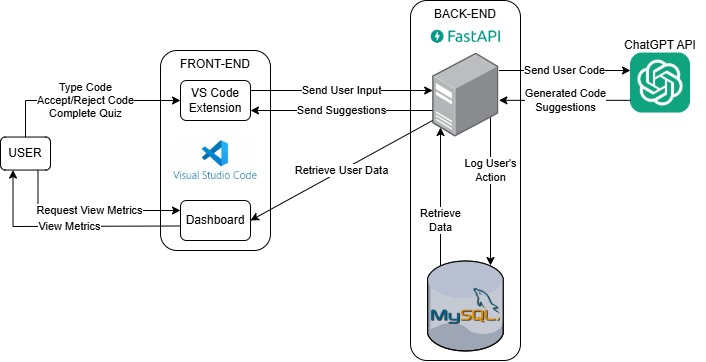
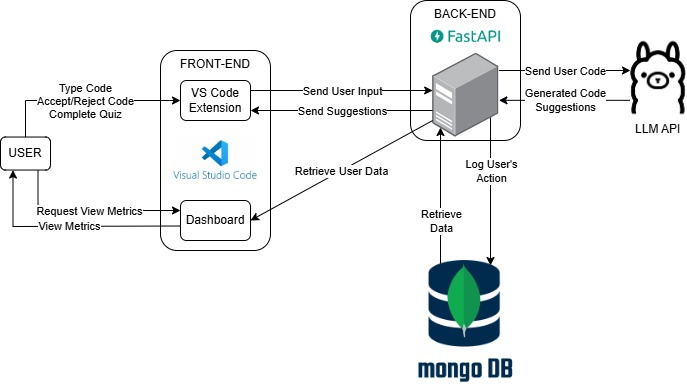
Adjusted System Block Diagram page

Changed region(s): [[0.0, 0.0, 1.0, 1.0], [0.0, 0.3343, 0.0917, 0.5166], [0.5502, 0.3646, 0.5808, 0.395]]

diff --git a/documentation/docs/requirements/system-block-diagram.md b/documentation/docs/requirements/system-block-diagram.md
@@ -11,6 +11,6 @@ import Figure from '../../src/components/Figure';
 </Figure>
 
 ### Description
-Figure 1 provides the general layout of the EduCode System. The backend will be built using FastAPI, a modern, high-performance framework designed for building APIs with Python. It supports asynchronous programming, enabling the handling of concurrent requests without blocking, making it suitable for scalable applications. The FastAPI backend will connect to an SQL database to store critical information, including user profiles, lines of code, acceptance history, and suggestions from the AI model. The SQL database will provide structured storage and efficient querying capabilities for the stored data. The backend will interact with a ChatGPT model via an API, generating real-time code suggestions based on the user’s activity. 
+Figure 1 provides the general layout of the EduCode System. The backend will be built using FastAPI, a modern, high-performance framework designed for building APIs with Python. It supports asynchronous programming, enabling the handling of concurrent requests without blocking, making it suitable for scalable applications. The FastAPI backend will connect to a MongoDB database to store critical information, including user profiles, lines of code, acceptance history, and suggestions from the AI model. The MongoDB database will provide structured storage and efficient querying capabilities for the stored data. The backend will interact with an Ollama model via an API, generating real-time code suggestions based on the user’s activity. 
 
 These suggestions will be presented to the user through the front-end VS Code extension, and the user's responses (accept/reject) will be stored in the backend along with the historical data for continuous improvement of the system. Additionally, relevant statistics will be logged and displayed on a dashboard, allowing administrators or users to monitor overall performance and gain insights into user behavior and engagement over time.
